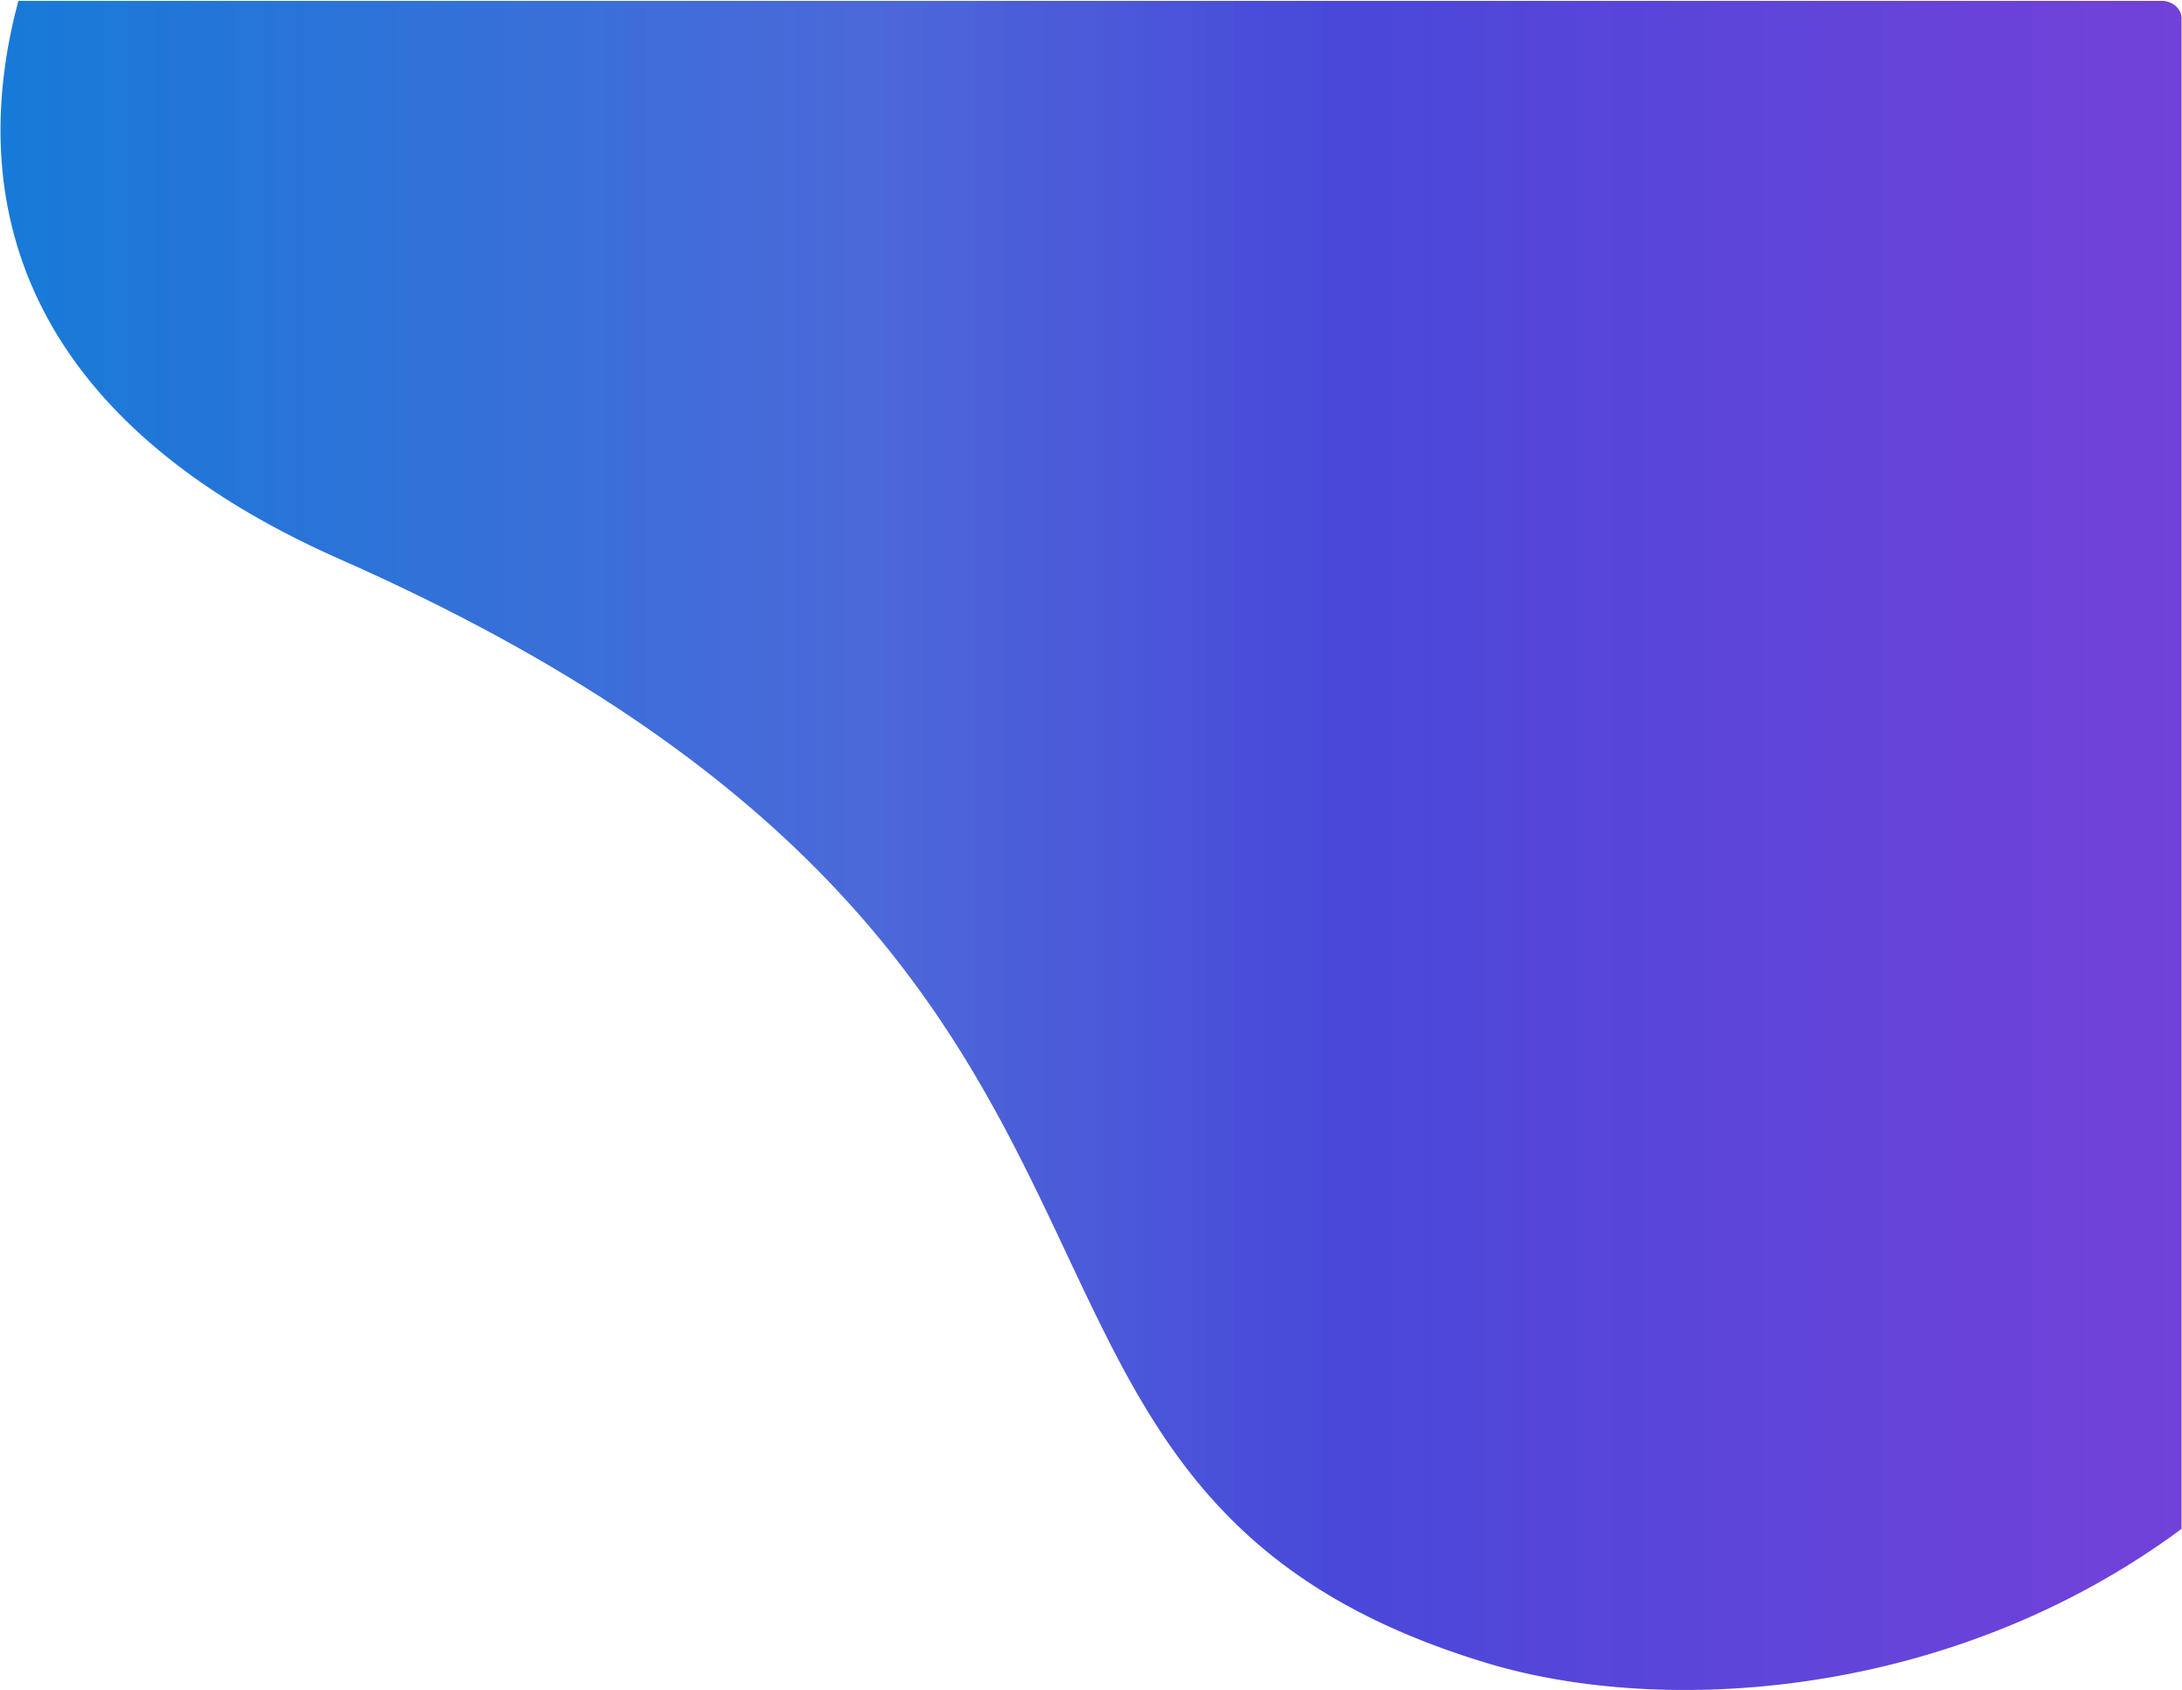
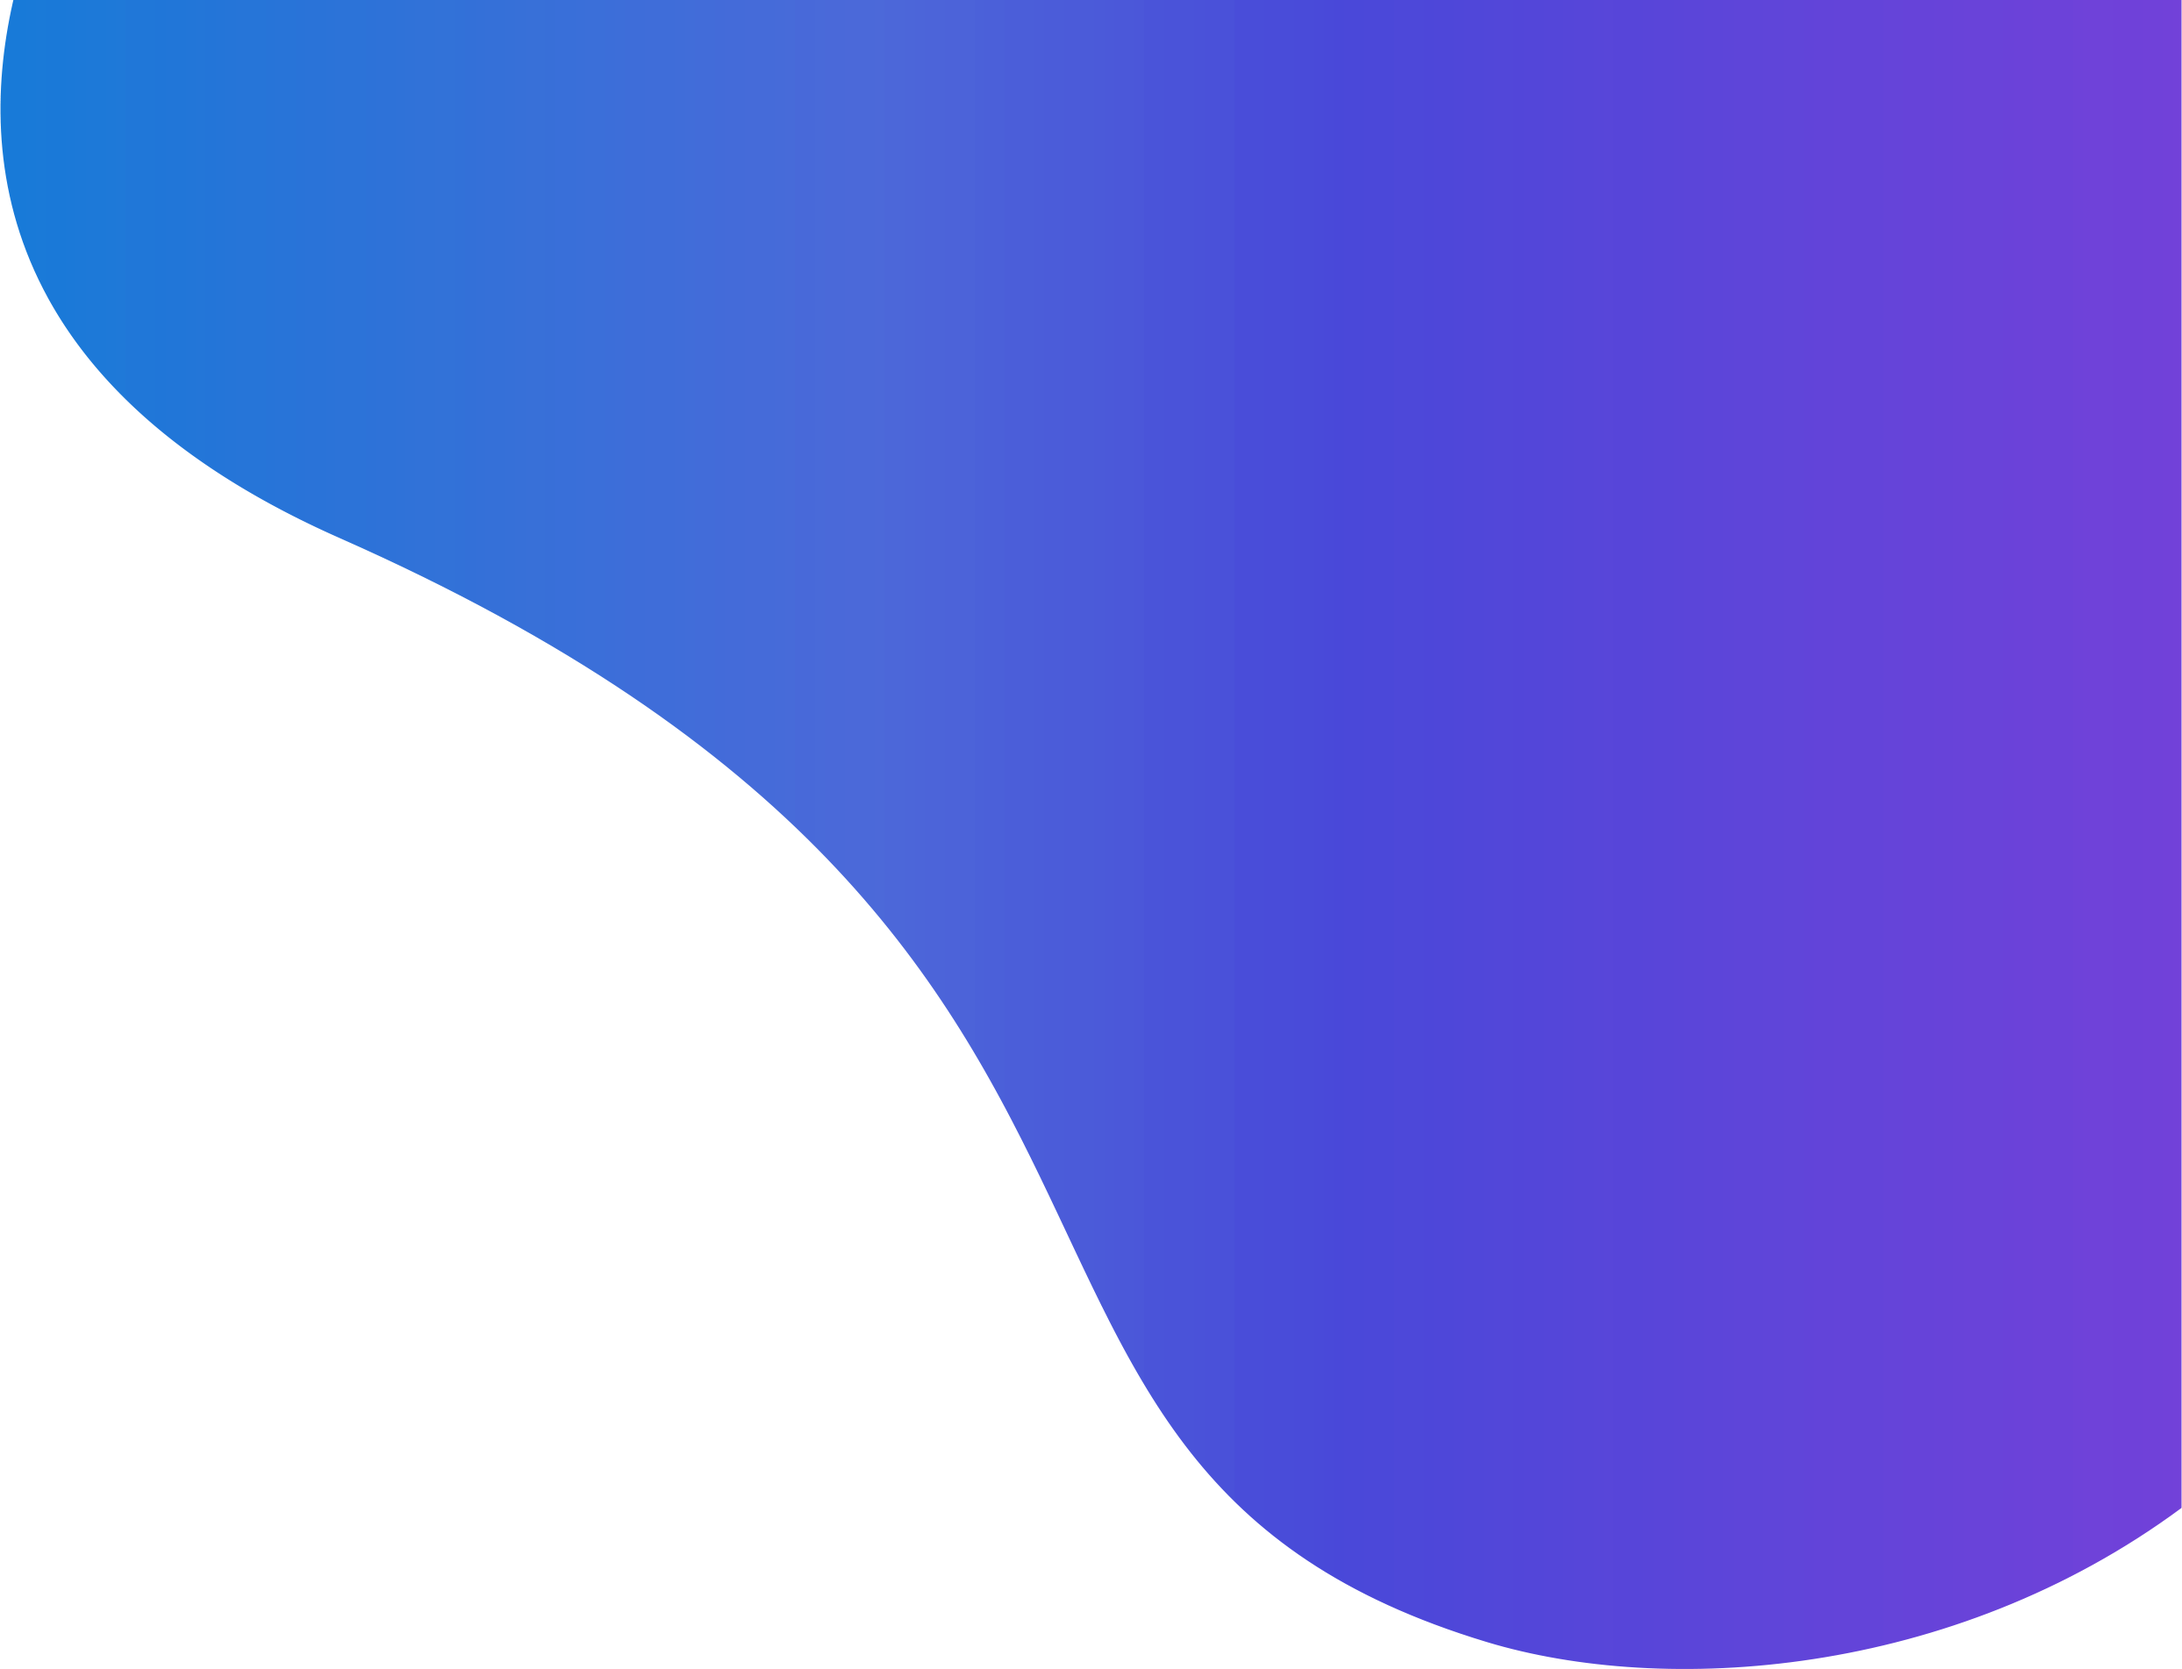
refactor: resize bg image and fix responsive (#22)
resize image background of section-ctf
change class for responsive in section-ctf

diff --git a/src/components/SectionCTF.vue b/src/components/SectionCTF.vue
@@ -1,7 +1,7 @@
 <template>
-  <section id="section-ctf" class="text-center py-16 md:py-32 bg-cover lg:bg-contain bg-right-top bg-no-repeat bg-white">
-    <div class="md:max-w-screen-xl m-auto text-white flex flex-col md:flex-row p-4 relative">
-      <div class="ctf-images mb-8">
+  <section id="section-ctf" class="text-center py-16 bg-cover bg-right-top bg-no-repeat bg-white">
+    <div class="md:max-w-screen-xl m-auto text-white flex flex-col md:flex-row px-4 relative">
+      <div class="ctf-images mb-8 md:max-w-screen-lg">
         <img src="../assets/ctf-image.png" alt="ctf image" />
       </div>
       <div class="ctf-content md:text-right md:w-2/3 md:pl-20 md:absolute md:right-0">
@@ -28,6 +28,9 @@
 <style lang="scss">
 #section-ctf {
   background-image: url('../assets/ctf-bg.png');
+  @media (min-width: 768px) {
+    background-size: 70% 100%;
+  }
   .ctf-content {
     @media (min-width: 768px) and (max-width: 1024px) {
       right: 1rem;
